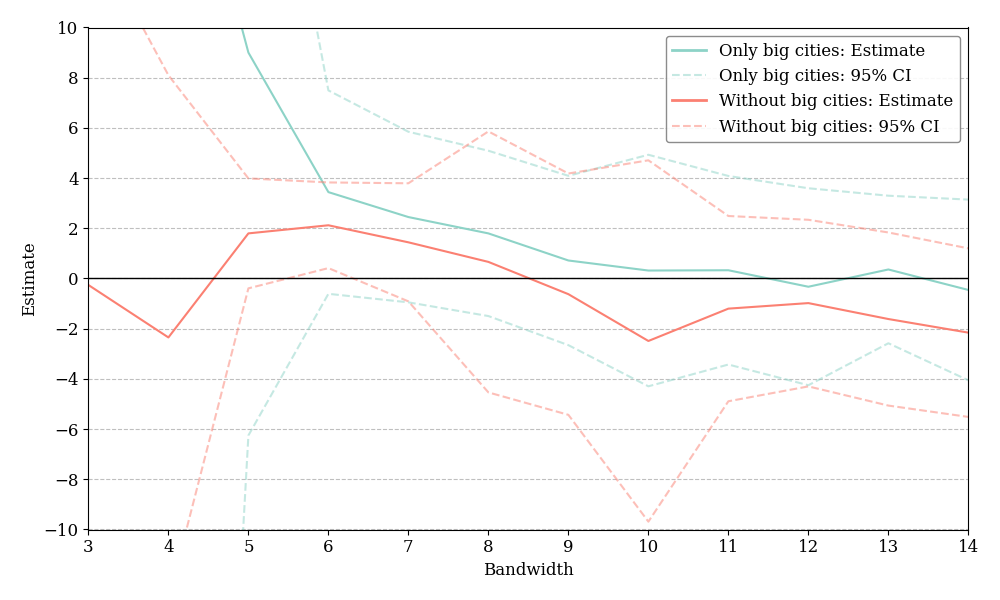
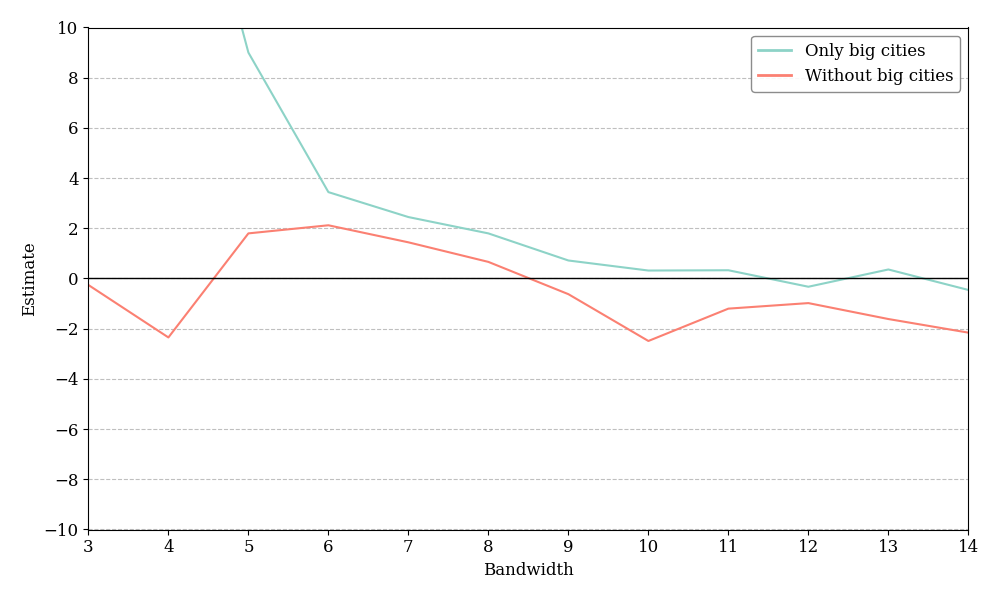
Created a big city plot without CI

diff --git a/Main_table.tex b/Main_table.tex
@@ -1,11 +1,8 @@
-\begin{tabular}{lrrrr}
+\begin{tabular}{lll}
 \toprule
-variable & mean & sd & first_percentile_mean & last_percentile_mean \\
+param & lin & quad \\
 \midrule
-bs & 594.949707 & 268.552399 & 255.147949 & 2643.142334 \\
-leje & 3896.336426 & 2060.964355 & 1878.945190 & 10661.876953 \\
-kvm & 58.613747 & 19.988743 & 23.335405 & 133.916351 \\
-alder & 35.870602 & 14.459888 & 17.843311 & 65.305893 \\
-ind & 14893.632812 & 6770.465332 & 493.060150 & 37199.578125 \\
+est & 0.453 & 1.865 \\
+se & (0.923) & (1.141) \\
 \bottomrule
 \end{tabular}
